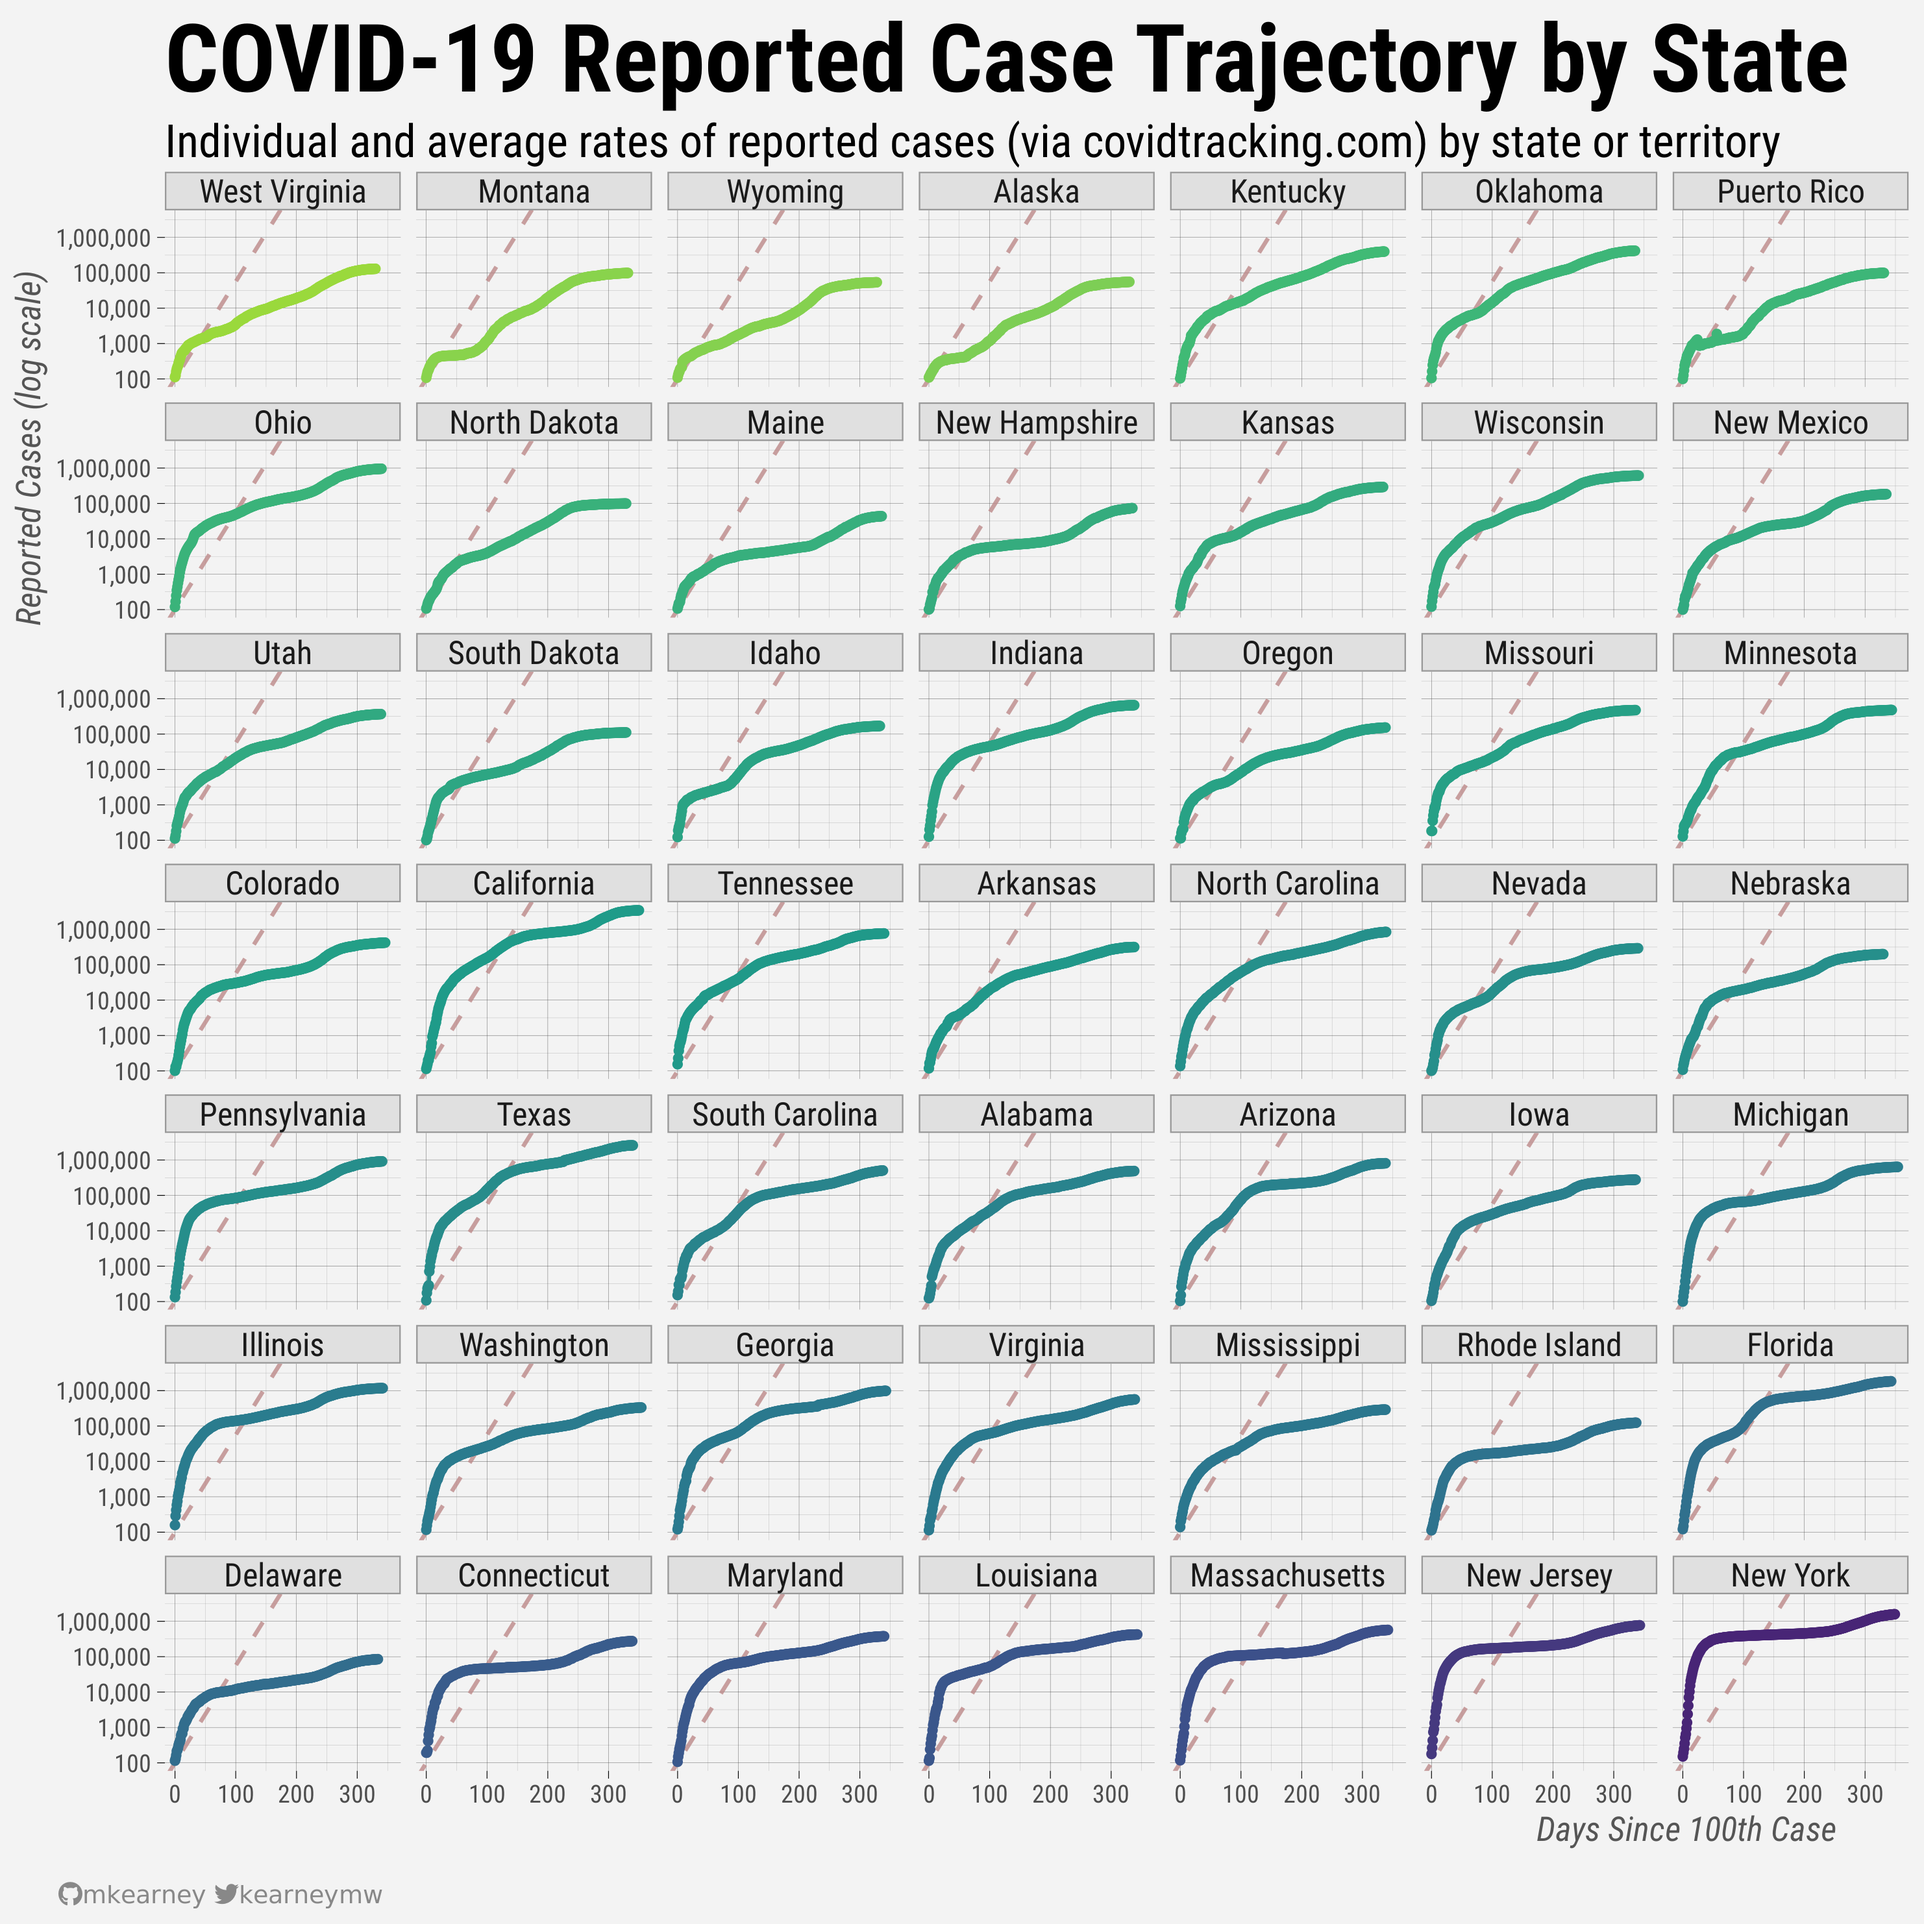
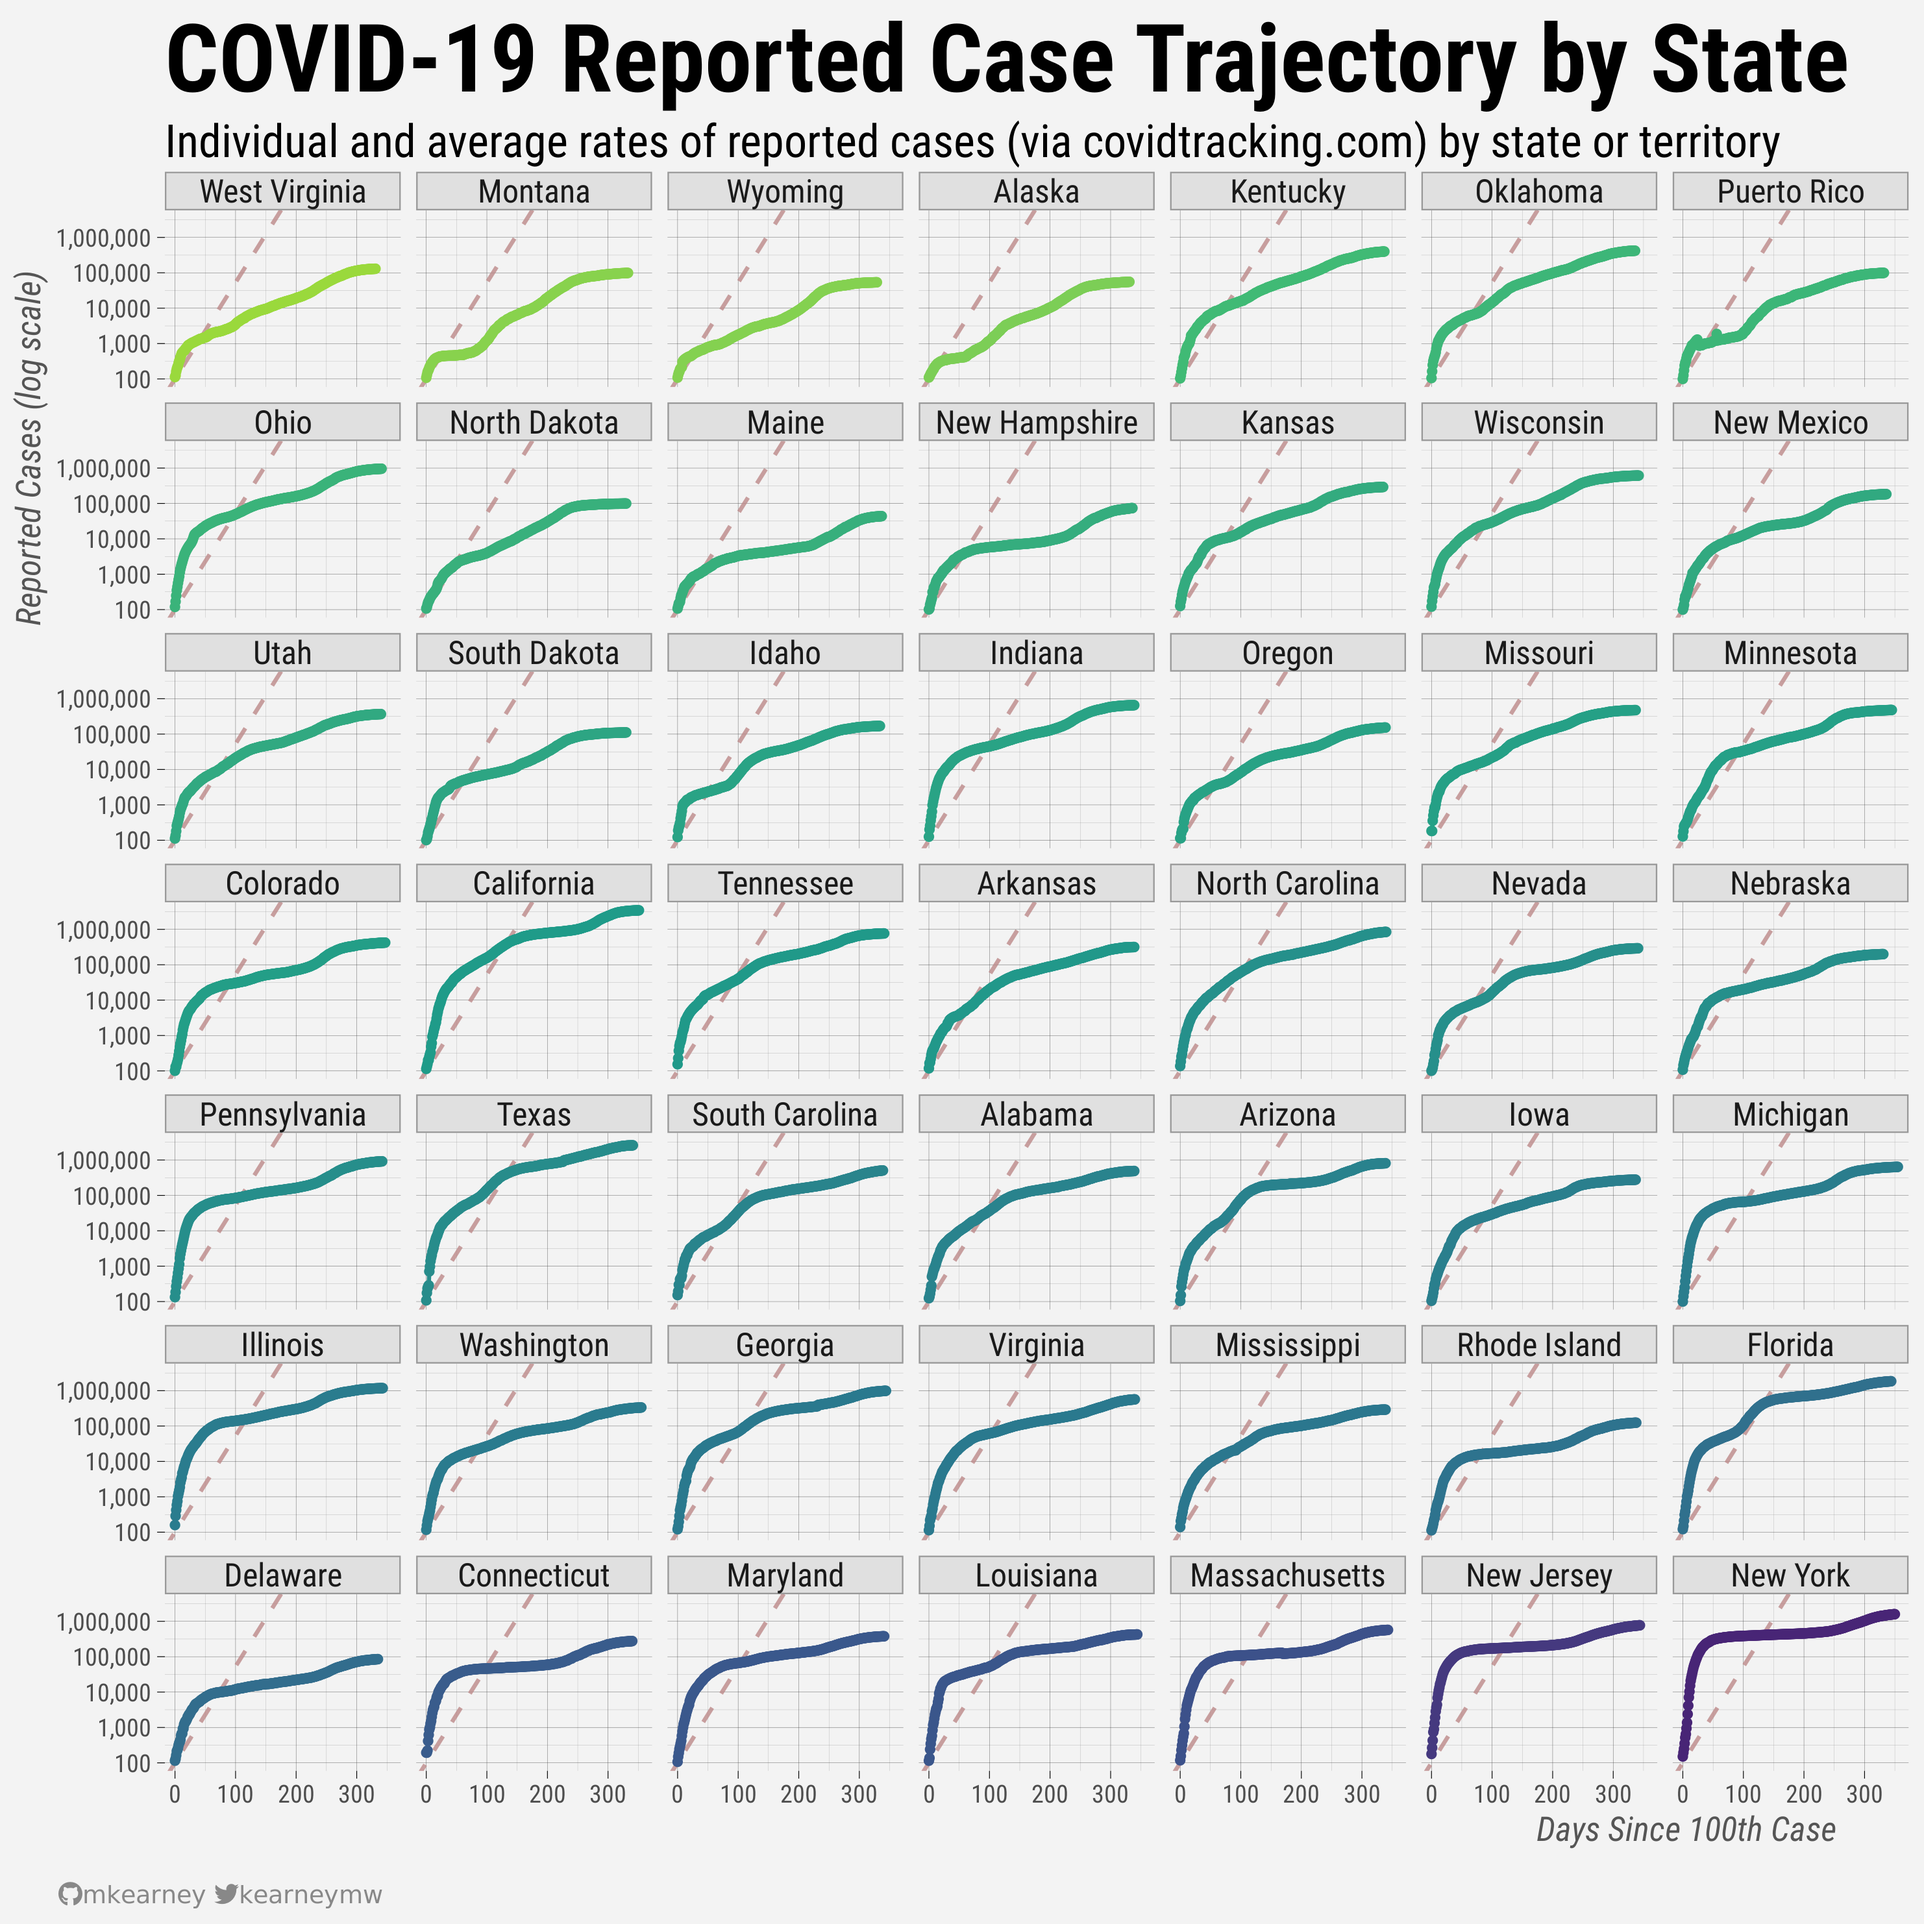
daily cron update

diff --git a/README.md b/README.md
@@ -40,7 +40,7 @@ grouped by similar endpoints and included below.
     #> # A tibble: 1 x 25
     #>   date       states positive negative pending hospitalized_cu… hospitalized_cu…
     #>   <date>      <int>    <int>    <int>   <int>            <int>            <int>
-    #> 1 2021-02-22     56 27932810   1.26e8    9499            55403           857448
+    #> 1 2021-02-23     56 28000689   1.26e8   11200            55058           859560
     #> # … with 18 more variables: in_icu_currently <int>, in_icu_cumulative <int>,
     #> #   on_ventilator_currently <int>, on_ventilator_cumulative <int>,
     #> #   date_checked <dttm>, death <int>, hospitalized <int>,
@@ -56,20 +56,20 @@ grouped by similar endpoints and included below.
     
     ``` r
     covid19_us_daily()
-    #> # A tibble: 407 x 25
+    #> # A tibble: 408 x 25
     #>    date       states positive negative pending hospitalized_cu… hospitalized_cu…
     #>    <date>      <int>    <int>    <int>   <int>            <int>            <int>
-    #>  1 2021-02-22     56 27932810   1.26e8    9499            55403           857448
-    #>  2 2021-02-21     56 27880280   1.26e8    9442            56159           856143
-    #>  3 2021-02-20     56 27821578   1.26e8    9408            58222           855146
-    #>  4 2021-02-19     56 27749224   1.25e8    8711            59882           853414
-    #>  5 2021-02-18     56 27674548   1.25e8    8679            62300           850740
-    #>  6 2021-02-17     56 27607724   1.24e8    8548            63405           848243
-    #>  7 2021-02-16     56 27540885   1.24e8   11547            64533           845386
-    #>  8 2021-02-15     56 27484573   1.24e8   11494            65455           843292
-    #>  9 2021-02-14     56 27429496   1.23e8   11515            67023           842162
-    #> 10 2021-02-13     56 27357332   1.23e8   11529            69283           840926
-    #> # … with 397 more rows, and 18 more variables: in_icu_currently <int>,
+    #>  1 2021-02-23     56 28000689   1.26e8   11200            55058           859560
+    #>  2 2021-02-22     56 27932810   1.26e8    9499            55403           857448
+    #>  3 2021-02-21     56 27880280   1.25e8    9442            56159           856143
+    #>  4 2021-02-20     56 27821578   1.25e8    9408            58222           855146
+    #>  5 2021-02-19     56 27749224   1.25e8    8711            59882           853414
+    #>  6 2021-02-18     56 27674548   1.24e8    8679            62300           850740
+    #>  7 2021-02-17     56 27607724   1.24e8    8548            63405           848243
+    #>  8 2021-02-16     56 27540885   1.24e8   11547            64533           845386
+    #>  9 2021-02-15     56 27484573   1.23e8   11494            65455           843292
+    #> 10 2021-02-14     56 27429496   1.23e8   11515            67023           842162
+    #> # … with 398 more rows, and 18 more variables: in_icu_currently <int>,
     #> #   in_icu_cumulative <int>, on_ventilator_currently <int>,
     #> #   on_ventilator_cumulative <int>, date_checked <dttm>, death <int>,
     #> #   hospitalized <int>, total_test_results <int>, last_modified <dttm>,
@@ -89,16 +89,16 @@ grouped by similar endpoints and included below.
     #> # A tibble: 56 x 56
     #>    date       state positive probable_cases negative pending total_test_resu…
     #>    <date>     <chr>    <int>          <int>    <int>   <int> <chr>           
-    #>  1 2021-02-22 AK       55507             NA       NA      NA totalTestsViral 
-    #>  2 2021-02-22 AL      487520         105189  1877930      NA totalTestsPeopl…
-    #>  3 2021-02-22 AR      315759          65912  2355211      NA totalTestsViral 
-    #>  4 2021-02-22 AS           0             NA     2140      NA totalTestsViral 
-    #>  5 2021-02-22 AZ      809474          54423  2948102      NA totalTestsViral 
-    #>  6 2021-02-22 CA     3446611             NA       NA      NA totalTestsViral 
-    #>  7 2021-02-22 CO      421294          22628  2139035      NA totalTestEncoun…
-    #>  8 2021-02-22 CT      275334          17041  6251451      NA posNeg          
-    #>  9 2021-02-22 DC       39755             NA       NA      NA totalTestEncoun…
-    #> 10 2021-02-22 DE       85090           4481   532452      NA totalTestEncoun…
+    #>  1 2021-02-23 AK       55560             NA       NA      NA totalTestsViral 
+    #>  2 2021-02-23 AL      488973         106067  1882180      NA totalTestsPeopl…
+    #>  3 2021-02-23 AR      316593          66327  2359571      NA totalTestsViral 
+    #>  4 2021-02-23 AS           0             NA     2140      NA totalTestsViral 
+    #>  5 2021-02-23 AZ      810658          54503  2953210      NA totalTestsViral 
+    #>  6 2021-02-23 CA     3450058             NA       NA      NA totalTestsViral 
+    #>  7 2021-02-23 CO      422390          22864  2143029      NA totalTestEncoun…
+    #>  8 2021-02-23 CT      276691          17846  5939862      NA posNeg          
+    #>  9 2021-02-23 DC       39844             NA       NA      NA totalTestEncoun…
+    #> 10 2021-02-23 DE       85228           4484   532673      NA totalTestEncoun…
     #> # … with 46 more rows, and 49 more variables: total_test_results <int>,
     #> #   hospitalized_currently <int>, hospitalized_cumulative <int>,
     #> #   in_icu_currently <int>, in_icu_cumulative <int>,
@@ -127,20 +127,20 @@ grouped by similar endpoints and included below.
     
     ``` r
     covid19_states_daily()
-    #> # A tibble: 20,045 x 56
+    #> # A tibble: 20,108 x 56
     #>    date       state positive probable_cases negative pending total_test_resu…
     #>    <date>     <chr>    <int>          <int>    <int>   <int> <chr>           
-    #>  1 2021-02-22 AK       55507             NA       NA      NA totalTestsViral 
-    #>  2 2021-02-22 AL      487520         105189  1877930      NA totalTestsPeopl…
-    #>  3 2021-02-22 AR      315759          65912  2355211      NA totalTestsViral 
-    #>  4 2021-02-22 AS           0             NA     2140      NA totalTestsViral 
-    #>  5 2021-02-22 AZ      809474          54423  2948102      NA totalTestsViral 
-    #>  6 2021-02-22 CA     3446611             NA       NA      NA totalTestsViral 
-    #>  7 2021-02-22 CO      421294          22628  2139035      NA totalTestEncoun…
-    #>  8 2021-02-22 CT      275334          17041  6251451      NA posNeg          
-    #>  9 2021-02-22 DC       39755             NA       NA      NA totalTestEncoun…
-    #> 10 2021-02-22 DE       85090           4481   532452      NA totalTestEncoun…
-    #> # … with 20,035 more rows, and 49 more variables: total_test_results <int>,
+    #>  1 2021-02-23 AK       55560             NA       NA      NA totalTestsViral 
+    #>  2 2021-02-23 AL      488973         106067  1882180      NA totalTestsPeopl…
+    #>  3 2021-02-23 AR      316593          66327  2359571      NA totalTestsViral 
+    #>  4 2021-02-23 AS           0             NA     2140      NA totalTestsViral 
+    #>  5 2021-02-23 AZ      810658          54503  2953210      NA totalTestsViral 
+    #>  6 2021-02-23 CA     3450058             NA       NA      NA totalTestsViral 
+    #>  7 2021-02-23 CO      422390          22864  2143029      NA totalTestEncoun…
+    #>  8 2021-02-23 CT      276691          17846  5939862      NA posNeg          
+    #>  9 2021-02-23 DC       39844             NA       NA      NA totalTestEncoun…
+    #> 10 2021-02-23 DE       85228           4484   532673      NA totalTestEncoun…
+    #> # … with 20,098 more rows, and 49 more variables: total_test_results <int>,
     #> #   hospitalized_currently <int>, hospitalized_cumulative <int>,
     #> #   in_icu_currently <int>, in_icu_cumulative <int>,
     #> #   on_ventilator_currently <int>, on_ventilator_cumulative <int>,
